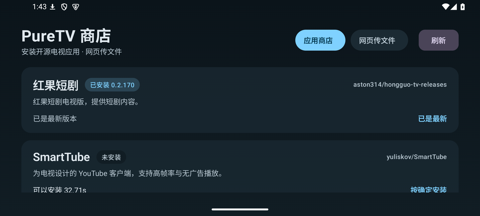
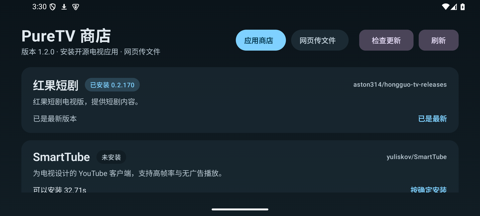
更新商店截图与更新说明解析测试

Changed region(s): [[0.4688, 0.1111, 0.875, 0.25], [0.0312, 0.2222, 0.3438, 0.2778], [0.0625, 0.0, 0.1562, 0.0556]]

diff --git a/app/src/test/java/com/puretv/store/data/StoreUpdaterTest.kt b/app/src/test/java/com/puretv/store/data/StoreUpdaterTest.kt
@@ -41,7 +41,7 @@ class StoreUpdaterTest {
             <feed xmlns="http://www.w3.org/2005/Atom">
               <entry>
                 <title>1.2.0</title>
-                <content type="html">&lt;h2&gt;新增&lt;/h2&gt;&lt;p&gt;检查更新&lt;/p&gt;</content>
+                <content type="html">&lt;h2&gt;新增&lt;/h2&gt;&lt;p&gt;检查更新&lt;br/&gt;第二行&lt;/p&gt;</content>
                 <link rel="alternate" href="https://github.com/JamesWDGu/PureTVStore/releases/tag/v1.2.0"/>
               </entry>
             </feed>
@@ -52,7 +52,8 @@ class StoreUpdaterTest {
             "https://github.com/JamesWDGu/PureTVStore/releases/download/v1.2.0/PureTVStore-1.2.0.apk",
             update.apkUrl,
         )
-        assertEquals("新增\n检查更新", update.notes)
+        assertEquals("新增\n检查更新\n第二行", update.notes)
+        assertEquals("A\nB", parseStoreUpdateAtom("<feed><entry><link href=\"/releases/tag/v1.2.1\"/><content>A&#10;B</content></entry></feed>")!!.notes)
     }
 
     @Test
